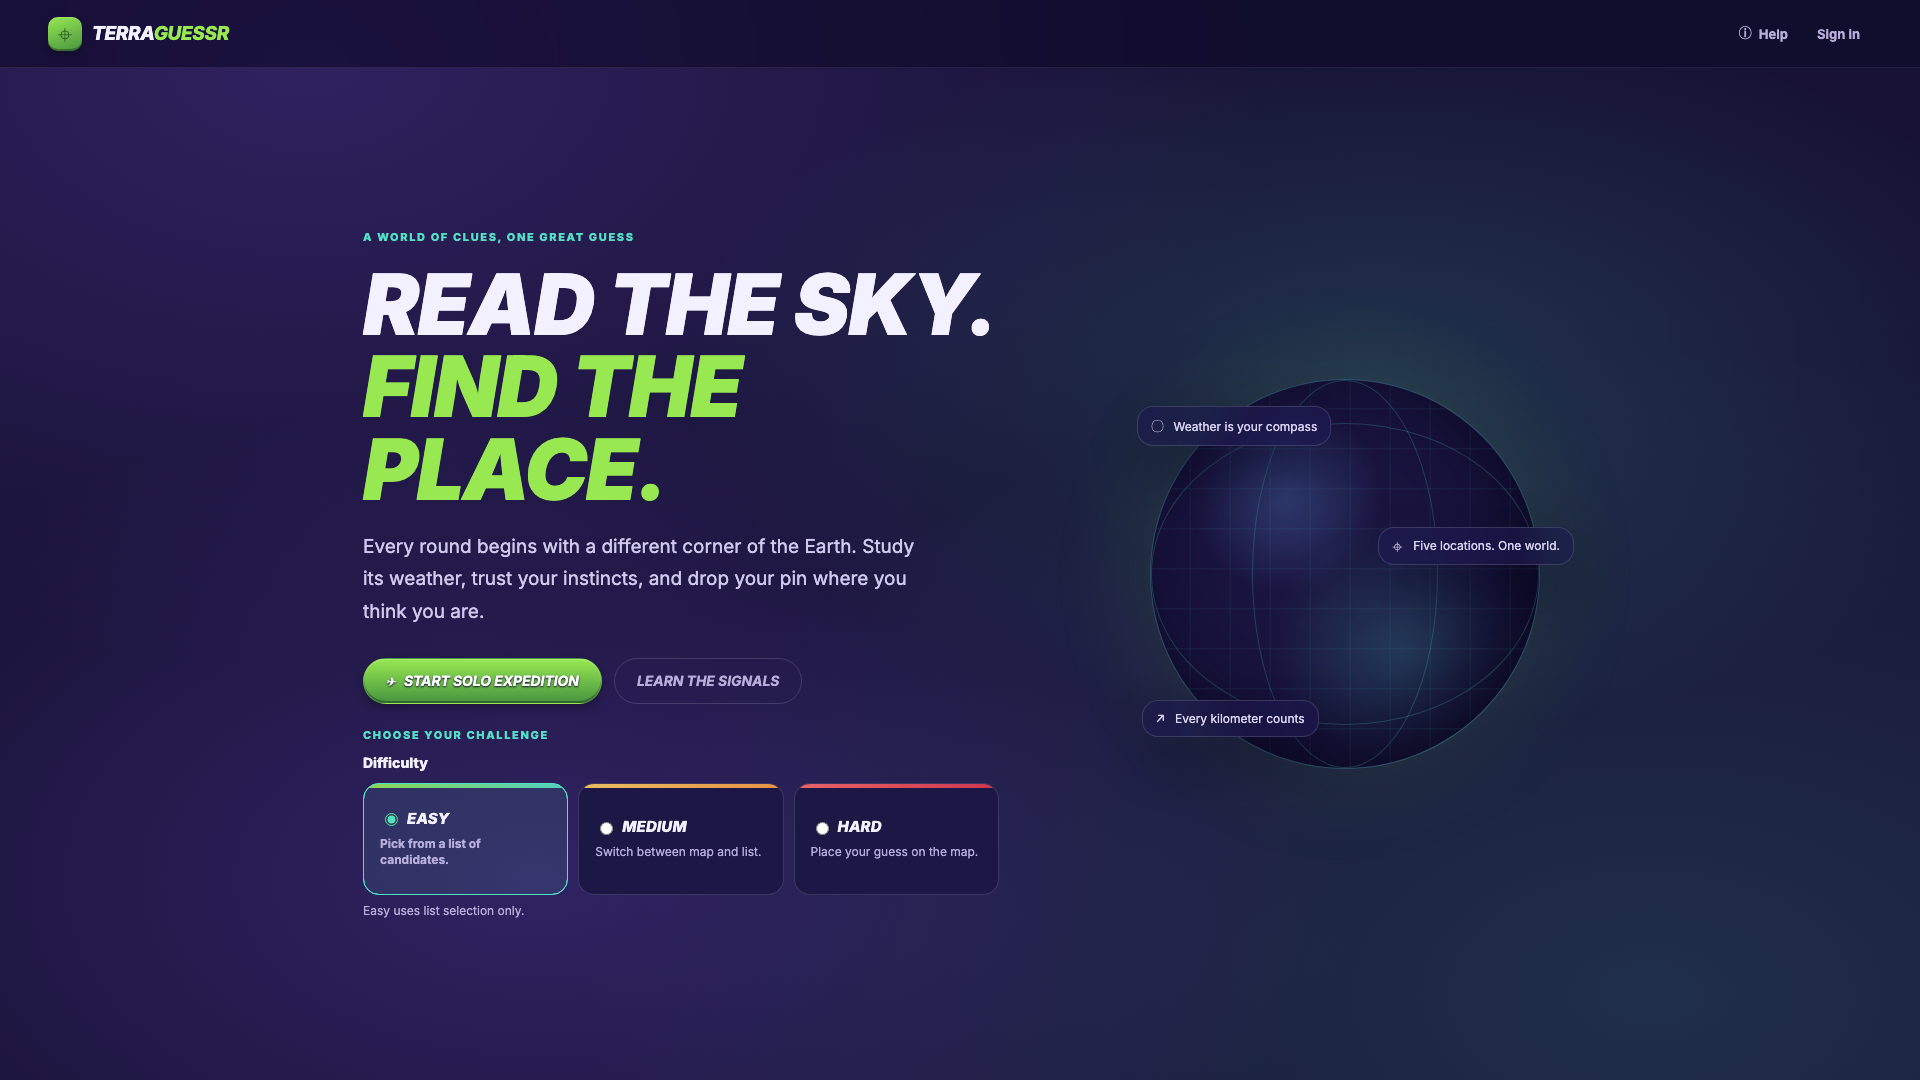
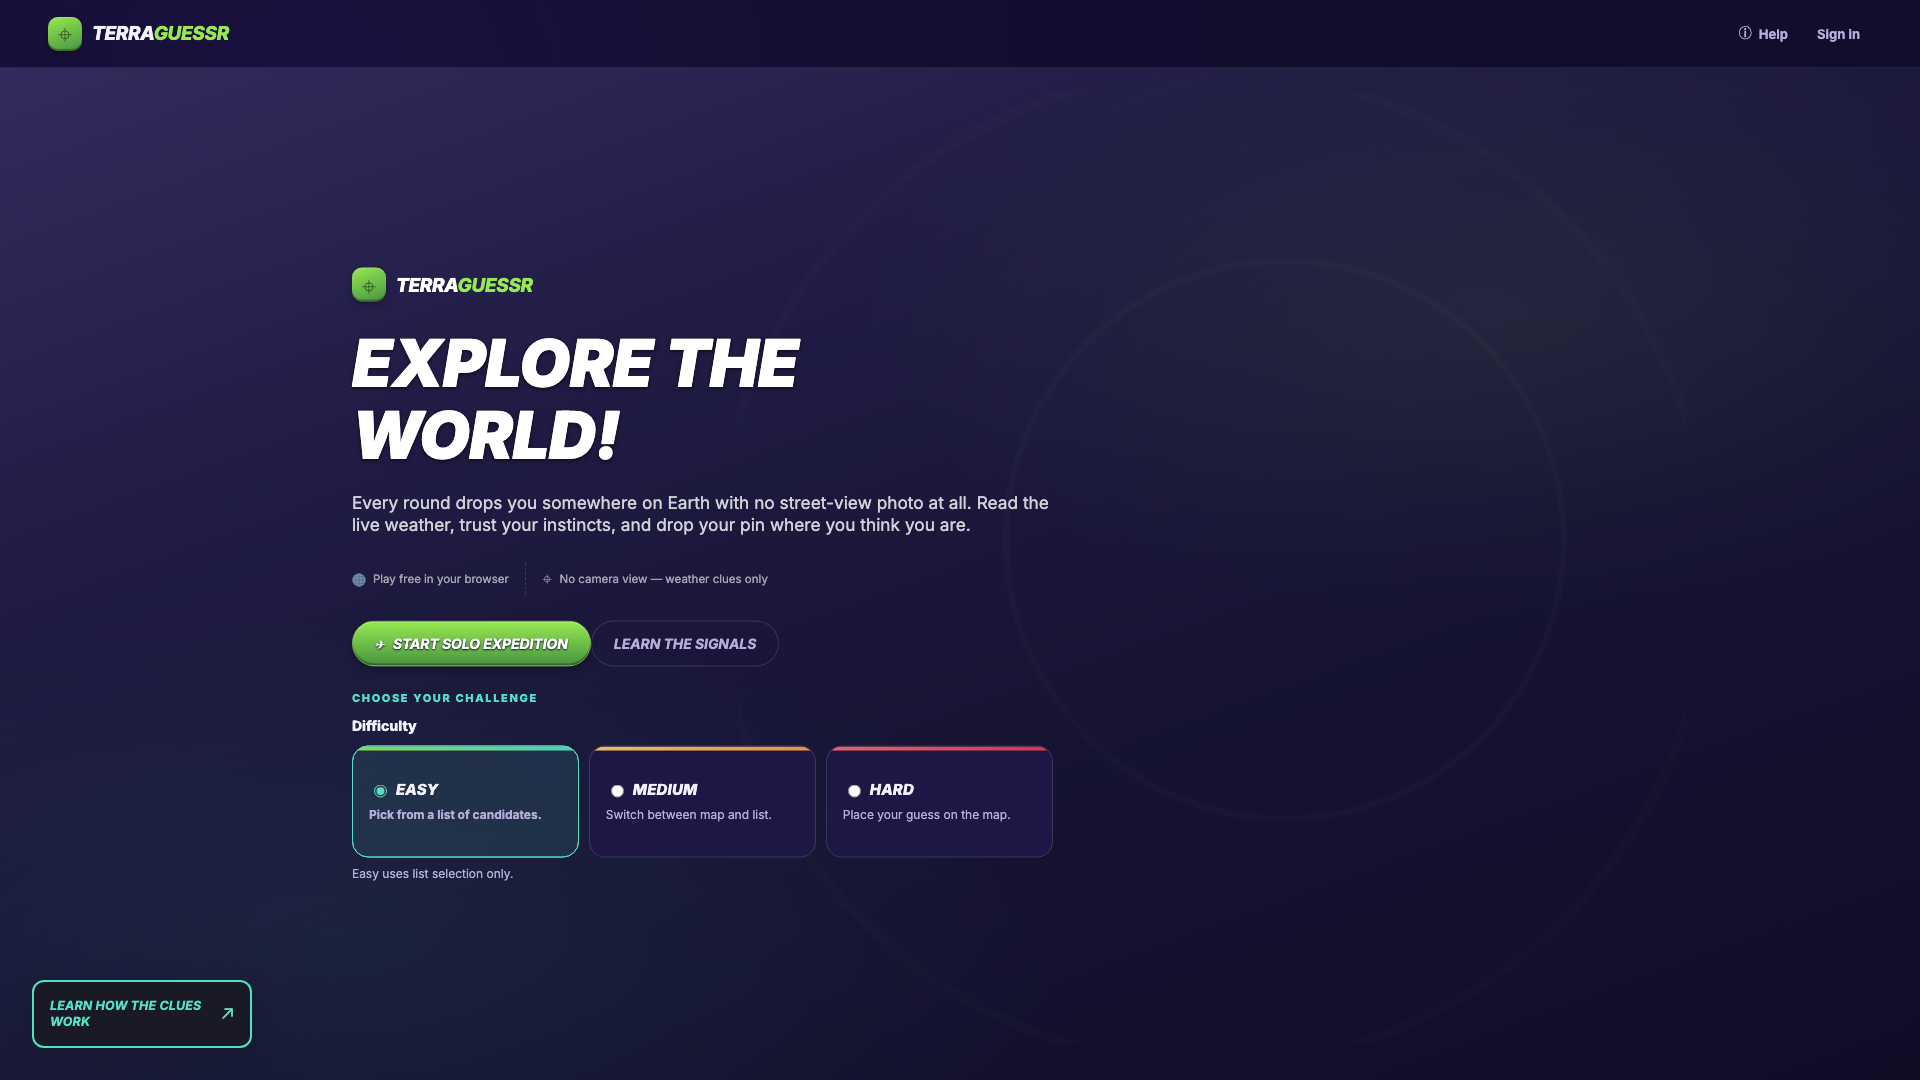
feat: rebuild landing hero 1:1 against the real Figma marketing frame
The previous hero (two-column layout with an orbiting-globe illustration)
didn't match the Figma file's logged-out marketing frame (node 53:1000
desktop / 53:1254 mobile) at all. Rebuilds it to the same structure: a
full-bleed tinted backdrop with a single left-aligned content column
vertically centered in the viewport (centered on mobile), the same
logo -> two-line italic-caps headline -> paragraph -> meta row w/ divider
-> CTA order, and the same floating accent-bordered promo card (bottom-left
on desktop, full-width above the headline on mobile, per the Figma mobile
frame). Font sizes, line-heights, and the content column's inset are
scaled proportionally from the Figma frame's exact px values at 1920w.

Three things in that Figma frame are GeoGuessr's own proprietary content,
not a generic design reference, so they're swapped rather than copied:
their promo photography/logo/horror-mode artwork (replaced with a CSS-only
backdrop and TerraGuessr's existing wordmark+pin mark), and their marketing
claims - "100 million players", "4.5/5 rating in App Store", and
"Steam/iOS/Android" availability - which are all false for this project
(it's a web-only app with no App Store presence or player count to cite).
Copy now truthfully describes what this game actually does (weather-only
clues, no street-view photo) instead. The floating promo card points at
the real tutorial dialog instead of a "free horror mode" TerraGuessr
doesn't have.
[…]

diff --git a/frontend/src/styles/design-system.css b/frontend/src/styles/design-system.css
@@ -165,18 +165,32 @@ button:focus-visible, a:focus-visible, input:focus-visible, select:focus-visible
 /* ---------- Landing ---------- */
 .tg-landing { position: relative; min-height: calc(100vh - 68px); overflow: hidden; background: radial-gradient(ellipse at 72% 30%, rgb(84 224 199 / 16%), transparent 36%), radial-gradient(ellipse at 28% 80%, rgb(123 83 230 / 26%), transparent 42%); }
 .tg-landing::before { content: ''; position: absolute; inset: 0; opacity: .14; pointer-events: none; background-image: linear-gradient(rgb(255 255 255 / 4%) 1px, transparent 1px), linear-gradient(90deg, rgb(255 255 255 / 4%) 1px, transparent 1px); background-size: 64px 64px; mask-image: linear-gradient(transparent, black 28%, transparent 88%); }
-.tg-hero { position: relative; z-index: 1; width: min(1370px, 100%); min-height: calc(100vh - 68px); margin: 0 auto; padding: clamp(46px, 8vh, 100px) clamp(20px, 6vw, 88px); display: grid; grid-template-columns: 1.2fr .8fr; align-items: center; gap: 7vw; }
-.tg-hero h1 { max-width: 760px; margin: 20px 0; font-family: var(--tg-font-display); font-weight: 900; font-style: italic; text-transform: uppercase; font-size: clamp(44px, 6.6vw, 84px); line-height: .98; letter-spacing: -.015em; }
-.tg-hero h1 span { color: var(--tg-green); }
-.tg-hero-copy { max-width: 555px; color: #cfc9ee; font-size: clamp(16px, 1.45vw, 19px); line-height: 1.7; }
-.tg-hero-cta { margin-top: 30px; display: flex; flex-wrap: wrap; gap: 12px; }
-.tg-hero-orbit { position: relative; min-height: 430px; display: grid; place-items: center; }
-.tg-globe { width: min(31vw, 390px); aspect-ratio: 1; position: relative; border: 1px solid rgb(84 224 199 / 30%); border-radius: 50%; background: radial-gradient(circle at 35% 30%, rgb(111 178 255 / 25%), transparent 26%), radial-gradient(circle at 65% 70%, rgb(84 224 199 / 20%), transparent 36%), #1a1440; box-shadow: inset -22px -20px 90px #0a0820, 0 0 110px rgb(123 216 74 / 12%); overflow: hidden; }
-.tg-globe::before, .tg-globe::after { content: ''; position: absolute; inset: 11% 0; border: 1px solid rgb(84 224 199 / 22%); border-radius: 50%; }
-.tg-globe::after { inset: 0 26%; }
-.tg-globe-grid { position: absolute; inset: 0; opacity: .6; background: repeating-linear-gradient(0deg, transparent 0 38px, rgb(84 224 199 / 10%) 39px 40px), repeating-linear-gradient(90deg, transparent 0 38px, rgb(84 224 199 / 8%) 39px 40px); border-radius: 50%; }
-.tg-orbit-tag { position: absolute; padding: 10px 13px; border: 1px solid var(--tg-glass-border); border-radius: var(--tg-radius-md); background: rgb(28 23 68 / 60%); backdrop-filter: var(--tg-glass-blur-sm); -webkit-backdrop-filter: var(--tg-glass-blur-sm); color: #d8d2f5; font-size: 12px; box-shadow: var(--tg-shadow); }
-.tg-orbit-tag.one { top: 11%; left: 1%; }.tg-orbit-tag.two { right: -4%; top: 39%; }.tg-orbit-tag.three { left: 2%; bottom: 12%; }
+/* Hero — matches Figma node 53:1000 (desktop) / 53:1254 (390w) 1:1: a
+   full-bleed tinted background with the content block vertically centered
+   and left-aligned (not the previous two-column + orbiting-globe layout).
+   The Figma frame uses GeoGuessr's own photo/logo/horror-mode art and
+   fabricated stats (100M players, 4.5-star rating, multi-platform
+   availability) — those are swapped for a CSS-only backdrop, TerraGuessr's
+   own wordmark, and truthful copy about what this game actually does,
+   everything else (positions, type scale, spacing) matches 1:1. */
+.tg-hero-fig { position: relative; z-index: 1; min-height: calc(100vh - 68px); overflow: hidden; isolation: isolate; }
+.tg-hero-fig-bg { position: absolute; inset: 0; z-index: 0; background: radial-gradient(ellipse 55% 50% at 78% 24%, rgb(151 232 81 / 12%), transparent 60%), radial-gradient(ellipse 65% 55% at 18% 86%, rgb(84 224 199 / 12%), transparent 58%), linear-gradient(160deg, #4a3f8a 0%, #2c2560 30%, #1c1744 60%, #110d2c 100%); }
+.tg-hero-fig-rings { position: absolute; inset: 0; opacity: .5; background-image: radial-gradient(circle, transparent 0 58%, rgb(255 255 255 / 6%) 58.4% 59.4%, transparent 59.8%), radial-gradient(circle, transparent 0 73%, rgb(255 255 255 / 4%) 73.4% 74.4%, transparent 74.8%); background-position: 76% 40%, 76% 40%; background-size: 62vmin 62vmin, 88vmin 88vmin; background-repeat: no-repeat; }
+.tg-hero-fig-overlay { position: absolute; inset: 0; z-index: 1; background: rgb(16 16 28 / 40%); }
+.tg-hero-fig-content { position: absolute; z-index: 2; top: 50%; left: clamp(20px, 18.33vw, 352px); right: clamp(20px, 15vw, 290px); transform: translateY(-50%); max-width: min(701px, 36.5vw); }
+.tg-hero-fig-logo { display: flex; align-items: center; gap: 10px; margin-bottom: 26px; }
+.tg-hero-fig-wordmark { font-family: var(--tg-font-display); font-weight: 800; font-style: italic; text-transform: uppercase; letter-spacing: -.02em; font-size: 19px; color: #fff; }
+.tg-hero-fig-wordmark span { color: var(--tg-green); }
+.tg-hero-fig-title { margin: 0 0 20px; font-family: var(--tg-font-display); font-weight: 900; font-style: italic; text-transform: uppercase; color: #fff; font-size: clamp(30px, 3.41vw, 65.5px); line-height: 1.1; letter-spacing: -.01em; text-shadow: 0 2px 4px rgb(16 16 28 / 60%), 0 1px 2px rgb(16 16 28 / 60%), 0 1px 1px rgb(16 16 28 / 60%); }
+.tg-hero-fig-copy { margin: 0 0 26px; color: rgb(255 255 255 / 80%); font-size: clamp(14px, .9vw, 17.3px); line-height: 1.3; }
+.tg-hero-fig-meta { display: flex; flex-wrap: wrap; align-items: center; gap: 16px; margin-bottom: 26px; }
+.tg-hero-fig-meta-item { display: inline-flex; align-items: center; gap: 7px; color: rgb(255 255 255 / 60%); font-size: 11.5px; }
+.tg-hero-fig-meta-divider { width: 0; height: 32px; border-left: 1px dashed rgb(255 255 255 / 14%); }
+.tg-hero-fig .tg-hero-cta { margin-top: 4px; margin-bottom: 6px; }
+.tg-hero-fig-card { position: absolute; z-index: 2; left: 32px; bottom: 32px; width: 220px; display: flex; align-items: center; justify-content: space-between; gap: 10px; padding: 16px 16px; border: 2px solid var(--tg-mint); border-radius: 12px; background: #1a1a26; box-shadow: 0 8px 20px rgb(26 26 46 / 85%); color: var(--tg-mint); text-align: left; font: inherit; cursor: pointer; transition: transform var(--tg-motion); }
+.tg-hero-fig-card:hover { transform: translateY(-2px); }
+.tg-hero-fig-card-title { font-family: var(--tg-font-display); font-weight: 700; font-style: italic; text-transform: uppercase; font-size: 12.5px; line-height: 1.3; letter-spacing: .01em; }
+.tg-hero-fig-card-arrow { flex: 0 0 auto; font-size: 18px; }
 
 /* ---------- Dashboard (authenticated home) ---------- */
 .tg-dashboard { max-width: 1180px; margin: clamp(28px, 7vh, 72px) auto; }
@@ -386,13 +400,19 @@ button:focus-visible, a:focus-visible, input:focus-visible, select:focus-visible
 .tg-switch.is-on span { transform: translateX(21px); background: #ddffd8; }
 .tg-settings-note { margin-top: 22px; font-size: 12px; line-height: 1.6; }
 
+/* Figma's 390w hero (node 53:1254) centers everything and moves the promo
+   card above the headline instead of floating bottom-left — matched here
+   by switching the section to a centered flex column and letting document
+   order (card markup comes after content in JSX) do the rest via `order`. */
 @media (max-width: 900px) {
   .tg-nav .tg-nav-label { display: none; }
   .tg-nav a, .tg-nav button { padding: 0 9px; }
-  .tg-hero { grid-template-columns: 1fr; gap: 18px; padding-top: 56px; }
-  .tg-hero-orbit { min-height: 300px; }
-  .tg-globe { width: min(54vw, 300px); }
-  .tg-orbit-tag.two { right: 8%; }
+  .tg-hero-fig { display: flex; flex-direction: column; align-items: center; justify-content: center; min-height: auto; padding: 88px 20px 36px; gap: 24px; }
+  .tg-hero-fig-content { position: static; order: 2; transform: none; max-width: 480px; text-align: center; left: auto; right: auto; }
+  .tg-hero-fig-logo, .tg-hero-fig-meta { justify-content: center; }
+  .tg-hero-fig-meta { row-gap: 8px; }
+  .tg-hero-fig-meta-divider { display: none; }
+  .tg-hero-fig-card { position: static; order: 1; width: 100%; max-width: 480px; left: auto; bottom: auto; }
   .tg-hud { width: min(260px, calc(100vw - 24px)); }
 }
 @media (max-width: 640px) {
@@ -402,13 +422,8 @@ button:focus-visible, a:focus-visible, input:focus-visible, select:focus-visible
   .tg-nav { gap: 1px; }
   .tg-nav a, .tg-nav button { min-height: 34px; width: 34px; padding: 0; font-size: 14px; }
   .tg-main { padding: 18px 14px; }
-  .tg-hero { min-height: calc(100vh - 60px); padding: 46px 22px; }
-  .tg-hero h1 { font-size: clamp(42px, 13vw, 64px); }
-  .tg-hero-orbit { min-height: 250px; }
-  .tg-globe { width: min(66vw, 250px); }
-  .tg-orbit-tag { font-size: 10px; padding: 8px; }
-  .tg-orbit-tag.one { left: 0; }
-  .tg-orbit-tag.two { right: 0; }
+  .tg-hero-fig { padding: 80px 16px 28px; gap: 20px; }
+  .tg-hero-fig-title { font-size: clamp(30px, 10.5vw, 43.7px); line-height: 1.19; }
   .tg-game { min-height: calc(100vh - 60px); }
   .tg-game-top { align-items: flex-start; padding: 10px 13px; }
   .tg-game-stats { gap: 7px; }

diff --git a/frontend/src/App.tsx b/frontend/src/App.tsx
@@ -113,8 +113,8 @@ function AppShell({ dataSource }: AppShellProps) {
   }, [resetToken]);
   useEffect(() => { document.documentElement.lang = language; }, [language]);
   const copy = language === 'de'
-    ? { help: 'Hilfe', settings: 'Einstellungen', profile: 'Profil', statistics: 'Statistik', leaderboard: 'Bestenliste', signIn: 'Anmelden', signOut: 'Abmelden', welcome: 'Willkommen zurück', dashboard: 'Wähle dein nächstes Abenteuer', solo: 'Solo-Expedition', soloCopy: 'Lies das Wetter, setze deinen Tipp und finde in fünf Runden heraus, wie nah du liegst.', create: 'Solo-Spiel starten', preparing: 'Wird vorbereitet…', homeEyebrow: 'Eine Welt voller Hinweise, ein guter Tipp', homeTitleA: 'Lies den Himmel.', homeTitleB: 'Finde den Ort.', homeCopy: 'Jede Runde beginnt an einem anderen Ort der Erde. Untersuche das Wetter, vertraue deinem Gefühl und setze deine Markierung.', start: 'Solo-Expedition starten', startHover: 'Bereit zum Abheben!', learn: 'Hinweise kennenlernen' }
-    : { help: 'Help', settings: 'Settings', profile: 'Profile', statistics: 'Statistics', leaderboard: 'Leaderboard', signIn: 'Sign in', signOut: 'Sign out', welcome: 'Welcome back', dashboard: 'Choose your next expedition', solo: 'Solo expedition', soloCopy: 'Read the weather, place your guess, and see how close you get across five rounds.', create: 'Create solo game', preparing: 'Preparing…', homeEyebrow: 'A world of clues, one great guess', homeTitleA: 'Read the sky.', homeTitleB: 'Find the place.', homeCopy: 'Every round begins with a different corner of the Earth. Study its weather, trust your instincts, and drop your pin where you think you are.', start: 'Start solo expedition', startHover: 'Taking off!', learn: 'Learn the signals' };
+    ? { help: 'Hilfe', settings: 'Einstellungen', profile: 'Profil', statistics: 'Statistik', leaderboard: 'Bestenliste', signIn: 'Anmelden', signOut: 'Abmelden', welcome: 'Willkommen zurück', dashboard: 'Wähle dein nächstes Abenteuer', solo: 'Solo-Expedition', soloCopy: 'Lies das Wetter, setze deinen Tipp und finde in fünf Runden heraus, wie nah du liegst.', create: 'Solo-Spiel starten', preparing: 'Wird vorbereitet…', homeTitleA: 'Entdecke die', homeTitleB: 'Welt!', homeCopy: 'Jede Runde beginnt an einem anderen Ort der Erde – ganz ohne Street-View-Fotos. Lies das Wetter, vertraue deinem Gefühl und setze deine Markierung.', start: 'Solo-Expedition starten', startHover: 'Bereit zum Abheben!', learn: 'Hinweise kennenlernen', playInBrowser: 'Direkt im Browser spielen', weatherOnly: 'Kein Kamerabild – nur Wetterdaten', chooseChallenge: 'Wähle deine Herausforderung', learnCardTitle: 'So funktionieren die Hinweise' }
+    : { help: 'Help', settings: 'Settings', profile: 'Profile', statistics: 'Statistics', leaderboard: 'Leaderboard', signIn: 'Sign in', signOut: 'Sign out', welcome: 'Welcome back', dashboard: 'Choose your next expedition', solo: 'Solo expedition', soloCopy: 'Read the weather, place your guess, and see how close you get across five rounds.', create: 'Create solo game', preparing: 'Preparing…', homeTitleA: 'Explore the', homeTitleB: 'world!', homeCopy: 'Every round drops you somewhere on Earth with no street-view photo at all. Read the live weather, trust your instincts, and drop your pin where you think you are.', start: 'Start solo expedition', startHover: 'Taking off!', learn: 'Learn the signals', playInBrowser: 'Play free in your browser', weatherOnly: 'No camera view — weather clues only', chooseChallenge: 'Choose your challenge', learnCardTitle: 'Learn how the clues work' };
 
   const busy = status === 'loading';
   const handleAttemptChange = useCallback((current: number, total: number) => setAttemptProgress({ current, total }), []);
@@ -432,45 +432,53 @@ function AppShell({ dataSource }: AppShellProps) {
         ) : null}
 
         {phase === 'home' && !authUser ? (
-          <section aria-labelledby="home-heading" className="tg-hero">
-            <div>
-              <div className="tg-eyebrow">{copy.homeEyebrow}</div>
-              <h1 id="home-heading">{copy.homeTitleA}<br /><span>{copy.homeTitleB}</span></h1>
-              <p className="tg-hero-copy">{copy.homeCopy}</p>
+          <section aria-labelledby="home-heading" className="tg-hero-fig">
+            <div className="tg-hero-fig-bg" aria-hidden="true"><div className="tg-hero-fig-rings" /></div>
+            <div className="tg-hero-fig-overlay" aria-hidden="true" />
+            <div className="tg-hero-fig-content">
+              <div className="tg-hero-fig-logo">
+                <span className="tg-brand-mark" aria-hidden="true">⌖</span>
+                <span className="tg-hero-fig-wordmark">Terra<span>Guessr</span></span>
+              </div>
+              <h1 id="home-heading" className="tg-hero-fig-title">{copy.homeTitleA}<br />{copy.homeTitleB}</h1>
+              <p className="tg-hero-fig-copy">{copy.homeCopy}</p>
+              <div className="tg-hero-fig-meta">
+                <span className="tg-hero-fig-meta-item"><span aria-hidden="true">🌐</span>{copy.playInBrowser}</span>
+                <span className="tg-hero-fig-meta-divider" aria-hidden="true" />
+                <span className="tg-hero-fig-meta-item"><span aria-hidden="true">⌖</span>{copy.weatherOnly}</span>
+              </div>
               <div className="tg-hero-cta">
-              <button
-                type="button"
-                onClick={() => void startGame(selection)}
-                disabled={busy}
-                data-testid="start-game"
-                aria-label={busy ? copy.preparing : copy.start}
-                className="tg-button tg-button-primary tg-fly-button"
-              >
-                {busy ? (
-                  copy.preparing
-                ) : (
-                  <>
-                    <span className="tg-fly-plane" aria-hidden="true">✈</span>
-                    <span className="tg-fly-text" aria-hidden="true">
-                      <span className="tg-fly-text-a">{copy.start}</span>
-                      <span className="tg-fly-text-b">{copy.startHover}</span>
-                    </span>
-                  </>
-                )}
-              </button>
+                <button
+                  type="button"
+                  onClick={() => void startGame(selection)}
+                  disabled={busy}
+                  data-testid="start-game"
+                  aria-label={busy ? copy.preparing : copy.start}
+                  className="tg-button tg-button-primary tg-fly-button"
+                >
+                  {busy ? (
+                    copy.preparing
+                  ) : (
+                    <>
+                      <span className="tg-fly-plane" aria-hidden="true">✈</span>
+                      <span className="tg-fly-text" aria-hidden="true">
+                        <span className="tg-fly-text-a">{copy.start}</span>
+                        <span className="tg-fly-text-b">{copy.startHover}</span>
+                      </span>
+                    </>
+                  )}
+                </button>
                 <button type="button" onClick={() => setTutorialOpen(true)} data-testid="hero-tutorial" className="tg-button tg-button-quiet">{copy.learn}</button>
               </div>
               <div className="tg-mt-6">
-                <div className="tg-eyebrow tg-mb-3">Choose your challenge</div>
+                <div className="tg-eyebrow tg-mb-3">{copy.chooseChallenge}</div>
                 <DifficultyPicker value={selection} onChange={setSelection} disabled={busy} />
               </div>
             </div>
-            <div className="tg-hero-orbit" aria-hidden="true">
-              <div className="tg-globe"><div className="tg-globe-grid" /></div>
-              <div className="tg-orbit-tag one">◌ &nbsp; Weather is your compass</div>
-              <div className="tg-orbit-tag two">⌖ &nbsp; Five locations. One world.</div>
-              <div className="tg-orbit-tag three">↗ &nbsp; Every kilometer counts</div>
-            </div>
+            <button type="button" className="tg-hero-fig-card" onClick={() => setTutorialOpen(true)}>
+              <span className="tg-hero-fig-card-title">{copy.learnCardTitle}</span>
+              <span className="tg-hero-fig-card-arrow" aria-hidden="true">↗</span>
+            </button>
           </section>
         ) : null}
 

diff --git a/e2e/phase1-visual.spec.ts b/e2e/phase1-visual.spec.ts
@@ -7,7 +7,7 @@ test('desktop landing and easy round', async ({ page }) => {
   await mkdir(evidence, { recursive: true });
   await page.setViewportSize({ width: 1440, height: 1000 });
   await page.goto('/');
-  await expect(page.getByRole('heading', { name: /read the sky/i })).toBeVisible();
+  await expect(page.getByRole('heading', { name: /explore the/i })).toBeVisible();
   await page.screenshot({ path: `${evidence}/phase1-desktop-home.png`, fullPage: true });
 
   await page.getByTestId('start-game').click();
@@ -28,7 +28,7 @@ test('mobile landing and game fit the viewport', async ({ page }) => {
   await mkdir(evidence, { recursive: true });
   await page.setViewportSize({ width: 375, height: 812 });
   await page.goto('/');
-  await expect(page.getByRole('heading', { name: /read the sky/i })).toBeVisible();
+  await expect(page.getByRole('heading', { name: /explore the/i })).toBeVisible();
   await page.screenshot({ path: `${evidence}/phase1-mobile-home.png`, fullPage: true });
 
   await page.getByTestId('start-game').click();

diff --git a/frontend/src/App.test.tsx b/frontend/src/App.test.tsx
@@ -28,7 +28,7 @@ describe('App solo flow', () => {
     renderApp();
 
     // Home: choose Medium + list mode, then start.
-    expect(screen.getByRole('heading', { level: 1, name: 'Read the sky. Find the place.' })).toBeInTheDocument();
+    expect(screen.getByRole('heading', { level: 1, name: /explore the\s*world!/i })).toBeInTheDocument();
     fireEvent.click(screen.getByTestId('difficulty-medium'));
     fireEvent.click(await screen.findByTestId('mode-option-list'));
     fireEvent.click(screen.getByTestId('start-game'));
